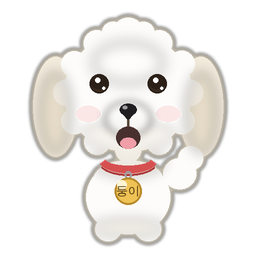
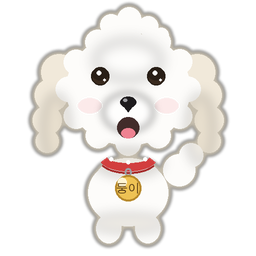
둥이 v4: 사진 참고 리디자인 + 점프 포즈 애니메이션
- 참고 사진처럼 혀를 내밀고 활짝 웃는 얼굴, 부스스한 정수리 털
- 빨간 목걸이에 흰 도트 (사진의 하네스 느낌) + 둥이 이름표 유지
- 새 포즈 fly-left.png: 상승 중엔 귀가 위로 날리고 발을 웅크린 모습,
  하강하면 귀가 늘어진 기본 모습으로 전환 (제트팩 중에도 fly 포즈)
- 서비스워커 캐시 v7, fly 이미지 프리캐시

Claude-Session: https://claude.ai/code/session_01J4eNHf1QHCv11aSCQ2eFd4

diff --git a/js/game.js b/js/game.js
@@ -5,7 +5,8 @@
  *
  * 캐릭터 교체 방법:
  *   assets/character/ 폴더에 아래 파일을 넣으면 자동 적용됩니다.
- *     - jump-left.png  : 왼쪽을 보는 기본 모습 (필수)
+ *     - jump-left.png  : 기본/하강 모습 (필수)
+ *     - fly-left.png   : 점프로 상승 중일 때 모습 (선택)
  *     - jump-right.png : 오른쪽을 보는 모습 (없으면 좌우반전 사용)
  *     - shoot.png      : 위로 발사할 때 모습 (선택)
  *   파일이 없으면 내장 임시 캐릭터가 그려집니다.
@@ -64,7 +65,7 @@ window.addEventListener('resize', resize);
 resize();
 
 // ---------- 캐릭터 이미지 로딩 (없으면 내장 그림) ----------
-const charImgs = { left: null, right: null, shoot: null };
+const charImgs = { left: null, right: null, shoot: null, fly: null };
 function tryLoadImage(src) {
   return new Promise((res) => {
     const img = new Image();
@@ -75,6 +76,7 @@ function tryLoadImage(src) {
 }
 (async () => {
   charImgs.left = await tryLoadImage('assets/character/jump-left.png');
+  charImgs.fly = await tryLoadImage('assets/character/fly-left.png');
   charImgs.right = await tryLoadImage('assets/character/jump-right.png');
   charImgs.shoot = await tryLoadImage('assets/character/shoot.png');
 })();
@@ -661,12 +663,23 @@ function drawPlayer() {
     roundRect(-player.w / 2 - 10, -14, 12, 26, 4);
   }
 
-  const img = shootPose > 0 && charImgs.shoot
-    ? charImgs.shoot
-    : (player.facing === 'right' && charImgs.right) ? charImgs.right : charImgs.left;
+  // 포즈 선택: 발사 > 상승(뛰는 모습) > 기본
+  let img = null;
+  let flip = false;
+  const rising = player.vy < -1 || jetpackTimer > 0;
+  if (shootPose > 0 && charImgs.shoot) {
+    img = charImgs.shoot;
+  } else if (rising && charImgs.fly) {
+    img = charImgs.fly;
+    flip = player.facing === 'right';
+  } else if (player.facing === 'right' && charImgs.right) {
+    img = charImgs.right;
+  } else {
+    img = charImgs.left;
+    flip = player.facing === 'right' && !charImgs.right;
+  }
 
   if (img) {
-    const flip = !charImgs.right && player.facing === 'right' && !(shootPose > 0 && charImgs.shoot);
     if (flip) ctx.scale(-1, 1);
     ctx.drawImage(img, -player.w / 2, -player.h / 2, player.w, player.h);
   } else {

diff --git a/sw.js b/sw.js
@@ -1,6 +1,6 @@
 // 서비스 워커: 오프라인 플레이 지원
 // 게임 파일을 수정하면 CACHE_VERSION을 올려야 사용자에게 새 버전이 전달됩니다.
-const CACHE_VERSION = 'jump-v6';
+const CACHE_VERSION = 'jump-v7';
 const ASSETS = [
   '.',
   'index.html',
@@ -10,6 +10,7 @@ const ASSETS = [
   'icons/icon-192.png',
   'icons/icon-512.png',
   'assets/character/jump-left.png',
+  'assets/character/fly-left.png',
   'assets/character/shoot.png',
 ];
 

diff --git a/README.md b/README.md
@@ -38,7 +38,8 @@
 
 | 파일명 | 설명 | 필수 여부 |
 |--------|------|-----------|
-| `jump-left.png` | 왼쪽을 보는 기본 모습 | ✅ 필수 |
+| `jump-left.png` | 기본/하강 모습 | ✅ 필수 |
+| `fly-left.png` | 점프로 상승 중일 때 모습 | 선택 |
 | `jump-right.png` | 오른쪽을 보는 모습 | 선택 (없으면 좌우반전) |
 | `shoot.png` | 위로 발사할 때 모습 | 선택 |
 